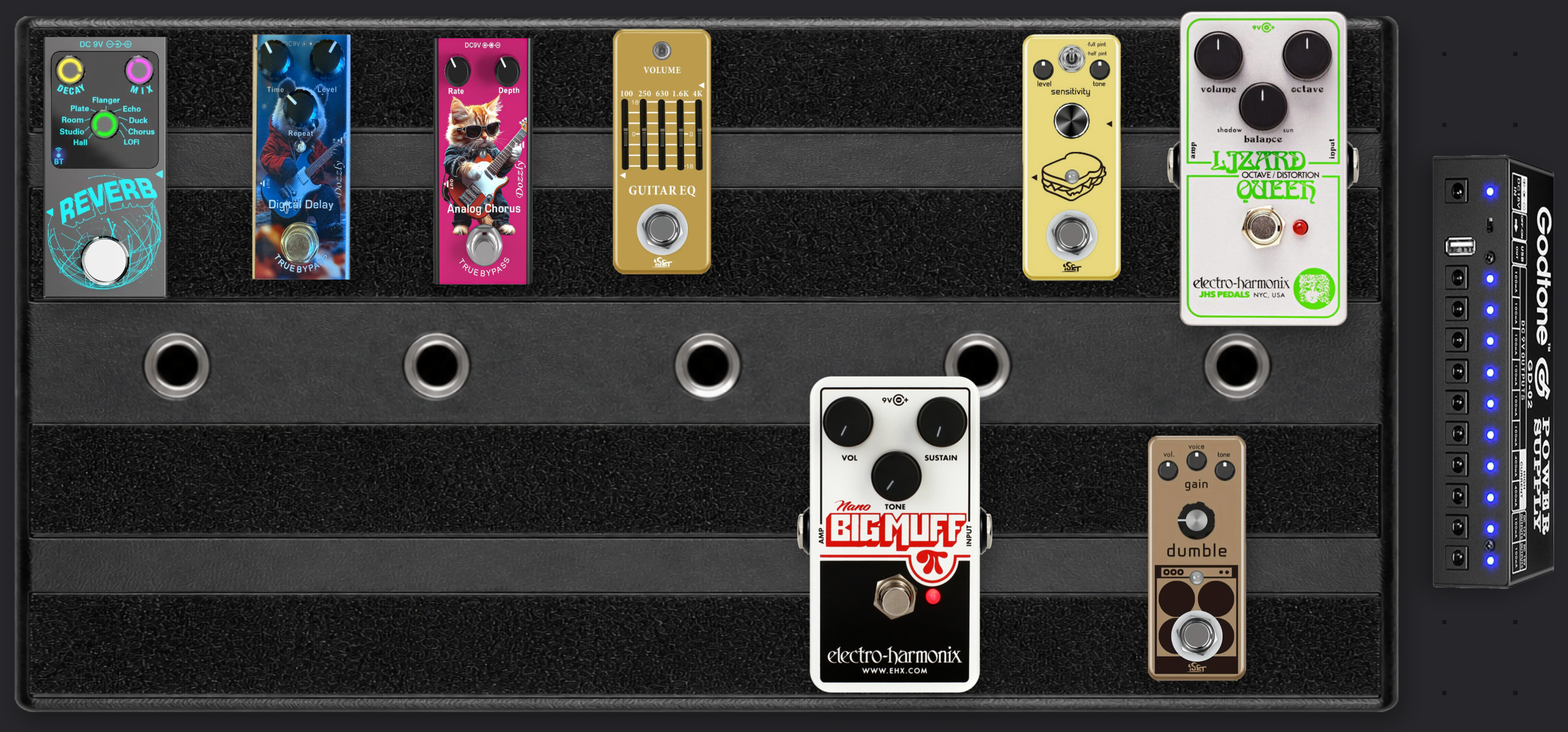
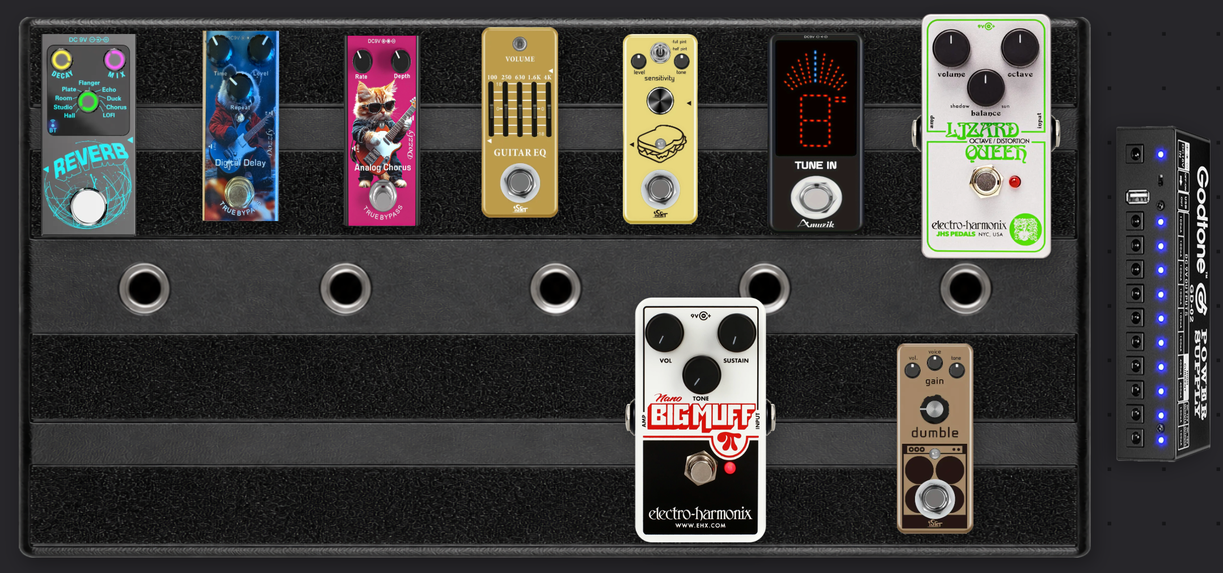
new studio images

Changed region(s): [[0.0, 0.0, 0.9012, 0.9812], [0.9012, 0.2146, 0.9944, 0.7972], [0.404, 0.4599, 0.4972, 0.5519]]

diff --git a/index.html b/index.html
@@ -22,9 +22,9 @@
 
         <link rel="stylesheet" type="text/css" href="./dracula-variables.css?594c5652a3d8e902b50e517a343bc202">
         <link rel="stylesheet" type="text/css" href="./style.css?cce865bd2e49d23154cf51c2d8667830">
-        <script src="./md5s.js?0a24f015"></script>
+        <script src="./md5s.js?2c199"></script>
         <script src="./conf.js?f446a246de4e84158c6204b7cdccab03"></script>
-        <script src="./data.js?77db160e54033761f20c741053576299"></script>
+        <script src="./data.js?03a0454a05d5103fcf10de00875e756b"></script>
         <script src="./code.js?6650e45844951ce5c6ad45dd62e859d3"></script>
         <meta name="apple-mobile-web-app-capable" content="yes" />
         <meta name="apple-mobile-web-app-title" content="Gear 🎸🤘🏼" />
@@ -48,9 +48,9 @@
             <!-- add top custom images and maps here! -->
             <span id="page_pics" class="h6 float-left">
                 <a class="pic_modalize" data-collection="studios"
-                    data-variants="sd,wa-1,wa-2"
-                    data-labels="SD,WA 1,WA 2"
-                    href="./pic/studios/sd.webp?6b1bd63d8306c93e05c48261a17edb7d">Studios</a>
+                    data-variants="ne-1,ne-2,sd,wa-1,wa-2"
+                    data-labels="NE 1,NE 2,SD,WA 1,WA 2"
+                    href="./pic/studios/ne-1.webp?8f8968f92ffc2d114a3f7911a11b7b07">Studios</a>
                 &nbsp;&nbsp;
                 <a class="pic_modalize" data-collection="pedalboards"
                     data-variants="mine-20260706,bass-20260706,kids-20260706"
@@ -72,6 +72,31 @@
                     <option value="pop_charlotte" label="Charlotte"></option>
                 </select>
             </span>
+            <map name="ne-1">
+                <area shape="rect" href="#" coords="1646,293,1292,1371" alt="Les Paul Standard">
+                <area shape="rect" href="#" coords="1755,300,2178,1398" alt="HD-28E Retro">
+                <area shape="rect" href="#" coords="2232,293,2580,1459" alt="Hellraiser Extreme-5">
+                <area shape="rect" href="#" coords="1817,1514,2130,2169" alt="Northfield Calhoun">
+                <area shape="rect" href="#" coords="2273,1541,2525,2032" alt="E3-S">
+                <area shape="rect" href="#" coords="1183,1848,1735,2639" alt="current_rack">
+                <area shape="rect" href="#" coords="1203,1657,1639,1841" alt="THR30II Wireless">
+                <area shape="rect" href="#" coords="4454,14,4884,1596" alt="Variax 700">
+                <area shape="rect" href="#" coords="4434,1623,4850,2660" alt="Variax 500">
+                <area shape="rect" href="#" coords="5013,1425,5606,0" alt="Theseia">
+                <area shape="poly" href="#" coords="1789,2619,1966,2373,2464,2455,2423,2748" alt="current_pedal">
+                <area shape="poly" href="#" coords="5613,3867,6431,3853,6302,3498,6049,3532,5886,3607,5613,3662" alt="bass_pedal">
+            </map>
+            <map name="ne-2">
+                <area shape="rect" href="#" coords="2021,3593,1511,3098" alt="kids_pedal">
+                <area shape="rect" href="#" coords="2399,2952,2066,3245" alt="FBV Express">
+                <area shape="rect" href="#" coords="2046,1600,3646,2659" alt="Rydeen">
+                <area shape="rect" href="#" coords="1678,661,2066,1171" alt="STAGEPAS 500">
+                <area shape="rect" href="#" coords="3626,727,3943,1196" alt="STAGEPAS 500">
+                <area shape="poly" href="#" coords="3908,1993,4070,2089,4065,2377,3923,2437,4059,2614,4620,2977,5069,2866,5119,2018,4806,1892,4761,1721,4362,1660,3913,1852" shape="YDP-223">
+                <area shape="poly" href="#" coords="4645,1680,4715,1695,4776,1907,4589,1933" alt="801m">
+                <area shape="rect" href="#" coords="4781,1786,5533,3189" alt="Deluxe Music Stand">
+                <area shape="rect" href="#" coords="623,4077,1148,3310" alt="Bongos">
+            </map>
             <map name="mine-20260706">
                 <!-- ./import_pp.plx Templeboards\ Trio\ 28 Walrus\ Audio\ Canvas\ Power 2555 -->
                 <area shape="rect" href="#" coords="2639.42754391068,287.874266162456,2839.65981341423,1400.47710304189" alt="Walrus Audio Canvas Power 15">
@@ -90,17 +115,18 @@
                 <area shape="rect" href="#" coords="32,32,2587,1526.94680851064" alt="Templeboards Trio 28">
             </map>
             <map name="kids-20260706">
-                <!-- ./import_pp.plx Rockhouse Godtone 2432 -->
-                <area shape="rect" href="#" coords="2514.45196119858,253.608372981209,2746.04160060945,1056.45245627222" alt="Godtone GD-02">
-                <area shape="rect" href="#" coords="2049.1330642966,22.9811467750128,2397.44388197054,578.796281361097" alt="Electro-Harmonix Lizard Queen">
-                <area shape="rect" href="#" coords="2022.7964087354,771.006159878111,2195.71667282885,1203.30682011173" alt="Dumble Mini">
-                <area shape="rect" href="#" coords="1802.62862366684,65.7124767902487,1975.54888776028,498.01313702387" alt="Sandwich Comp Mini">
-                <area shape="rect" href="#" coords="1401.12297044185,667.36376333164,1749.43378811579,1223.17889791772" alt="Electro-Harmonix Nano Big Muff Pi">
-                <area shape="rect" href="#" coords="1081.96349862875,54.7367953275775,1254.88376272219,487.037455561199" alt="GT EQ Mini">
-                <area shape="rect" href="#" coords="767.870050177755,72.2567947181315,940.790314271204,504.557454951753" alt="Analog Chorus Mini">
-                <area shape="rect" href="#" coords="449.735844997461,63.6324930421538,622.656109090909,495.933153275775" alt="Digital Delay Mini">
-                <area shape="rect" href="#" coords="80.8810963941088,68.5477399695278,299.501715997969,530.49187404774" alt="Reverb Mini">
-                <area shape="rect" href="#" coords="32,32,2464,1257.26358557643" alt="Rockhouse Pedalboard">
+                <!-- ./import_pp.plx Rockhouse Godtone 1890 -->
+                <area shape="rect" href="#" coords="1961.20814418804,204.220322752666,2141.18528994731,828.141094718131" alt="Godtone GD-02">
+                <area shape="rect" href="#" coords="1599.59107381602,24.9911050184105,1870.27670103796,456.936254840655" alt="Electro-Harmonix Lizard Queen">
+                <area shape="rect" href="#" coords="1579.12385382809,606.309885760538,1713.50678932834,942.267224511173" alt="Dumble Mini">
+                <area shape="rect" href="#" coords="1352.04777488573,57.8345494222954,1521.94620048248,416.828962830117" alt="Amuzik Tuner">
+                <area shape="rect" href="#" coords="1095.99770318055,525.765424628618,1366.68333040249,957.710574450863" alt="Electro-Harmonix Nano Big Muff Pi">
+                <area shape="rect" href="#" coords="1095.08883659218,62.8420715464704,1229.47177209243,398.799410297105" alt="Sandwich Comp Mini">
+                <area shape="rect" href="#" coords="847.966699181056,49.6696312373033,982.34963468131,385.626969987938" alt="GT EQ Mini">
+                <area shape="rect" href="#" coords="603.872695245048,63.2850912899949,738.255630745302,399.24243004063" alt="Analog Chorus Mini">
+                <area shape="rect" href="#" coords="356.638465067928,56.5828173723971,491.021400568182,392.540156123032" alt="Digital Delay Mini">
+                <area shape="rect" href="#" coords="69.9873652075927,60.4026433151344,239.885790804342,419.397056722956" alt="Reverb Mini">
+                <area shape="rect" href="#" coords="32,32,1922,984.199085830371" alt="Rockhouse Pedalboard">
             </map>
             <map name="bass-20260706">
                 <!-- ./import_pp.plx Quick\-Lok\ VP\-2611 ENO\ ES\-1 576 -->

diff --git a/md5s.js b/md5s.js
@@ -1,7 +1,7 @@
 const md5s = {
    "./code.js" : "6650e45844951ce5c6ad45dd62e859d3",
    "./conf.js" : "f446a246de4e84158c6204b7cdccab03",
-   "./data.js" : "77db160e54033761f20c741053576299",
+   "./data.js" : "03a0454a05d5103fcf10de00875e756b",
    "./dracula-variables.css" : "594c5652a3d8e902b50e517a343bc202",
    "./footer.js" : "34dc7c2d96a5c9742b503e29bb75ff91",
    "./github.png" : "ca1ef68de99bb1c21b54a2de9c2f5603",
@@ -108,6 +108,9 @@ const md5s = {
    "./images/dd55c/sm.webp" : "7ba6360ce98b4021e963efa3384811f0",
    "./images/deluxebassbigmuffpi/main.webp" : "8d0cfe11537a85a5e5c90e63596c1655",
    "./images/deluxebassbigmuffpi/sm.webp" : "49df9786ab2a3033d06913d5811394a8",
+   "./images/deluxemusicstand/folded.webp" : "d70321d0a03d2316418b3e6df4d140f8",
+   "./images/deluxemusicstand/main.webp" : "d46aa5eaa3555e16294fd1c078096349",
+   "./images/deluxemusicstand/sm.webp" : "da73435749f4142154f0ed64979b6fdc",
    "./images/deluxestringlock/main.webp" : "e1686f0b452f7d52b79b9f8e96836dd3",
    "./images/deluxestringlock/sm.webp" : "d89470788bb313d1f302879eecd60b20",
    "./images/digidelay/main.webp" : "701bd16c4f7c04ca6fcbfa51b82acdf6",
@@ -492,6 +495,8 @@ const md5s = {
    "./images/thr30iiwireless/top.webp" : "03936fdf5c6f1b129b63a476c9f9d91e",
    "./images/tortexstandard/main.webp" : "1945f6102354bfeae9ea015a52af9eb8",
    "./images/tortexstandard/sm.webp" : "af4394ec489798e041d9a1475c487186",
+   "./images/tripodspeakerstand/main.webp" : "78e03a6b04c17ed8494cd0934dce74d3",
+   "./images/tripodspeakerstand/sm.webp" : "a7ee98d1985b6bdc93e4ecff57c9ea5e",
    "./images/tumnusdeluxe/main.webp" : "96396a6abe36a9604e3b01a25611ca17",
    "./images/tumnusdeluxe/sm.webp" : "1df095dd2ee20755830b15a3ea6eb7e1",
    "./images/tunermini/main.webp" : "13594b9539349b1d3ed74a72e7d1042b",
@@ -701,16 +706,18 @@ const md5s = {
    "./manuals/ydp223/yamaha-50-greats-piano.pdf" : "698e4d35ecf2625911a6ca5fb7f7d5d7",
    "./manuals/ypt300/YPT300_1.pdf" : "05b566baeb4e9064ab170a87abddcb1d",
    "./manuals/zeus/Quick Start Guide.pdf" : "57fd8927b9c597aca1753d1c95c9ec68",
-   "./md5s.js" : "0a24f015",
+   "./md5s.js" : "2c199",
    "./pic/pedalboards/bass-20260701.webp" : "f7cd591fb7a81960bedfeafe59e45ae1",
    "./pic/pedalboards/bass-20260706.webp" : "40d0ee044a6aa3593d6c627e1388ac7c",
    "./pic/pedalboards/kids-20260501.webp" : "d87fd6898244119104c9a9bd8378c76c",
    "./pic/pedalboards/kids-20260701.webp" : "3403d66b31d4e9486ed0a96bb6ae53c8",
-   "./pic/pedalboards/kids-20260706.webp" : "89911ce4d1fb5c471ab48d59e8afb782",
+   "./pic/pedalboards/kids-20260706.webp" : "0da3ddb089c3cf1865591125bb0d208",
    "./pic/pedalboards/mine-20260501.webp" : "f2380ba7cc10e936bb35e4f21fd1640f",
    "./pic/pedalboards/mine-20260601.webp" : "b1af7426fc3d7c3a99436037755a3796",
    "./pic/pedalboards/mine-20260701.webp" : "5fff2d041745334e724dfc25b6d6e53a",
    "./pic/pedalboards/mine-20260706.webp" : "720e7e0ff962c9eb14011fa3d5bcd1d1",
+   "./pic/studios/ne-1.webp" : "8f8968f92ffc2d114a3f7911a11b7b07",
+   "./pic/studios/ne-2.webp" : "d37cc0047d94ca51a6042a4bc5eb5c9e",
    "./pic/studios/sd.webp" : "6b1bd63d8306c93e05c48261a17edb7d",
    "./pic/studios/wa-1.webp" : "f5b324fdafe7dc1681be30c047e665ee",
    "./pic/studios/wa-2.webp" : "969c536895266b783eb341d819b5c306",

diff --git a/data.js b/data.js
@@ -1,4 +1,4 @@
-var lastModified = new Date("2026-07-02T12:00:00+0000")
+var lastModified = new Date("2026-07-06T12:00:00+0000")
 var equipment_data = {}
 var equipment = [
    {
@@ -2822,6 +2822,26 @@ var equipment = [
    },
    {
       "category" : "Hardware",
+      "image" : true,
+      "make" : "Crafty Gizmos",
+      "model" : "Deluxe Music Stand",
+      "type" : "Stand",
+      "year" : "2017"
+   },
+   {
+      "category" : "Hardware",
+      "image" : true,
+      "link" : "https://pyleusa.com/products/pstnd25?_pos=1&_sid=9ac181a9a&_ss=r",
+      "make" : "Pyle",
+      "model" : "Tripod Speaker Stand",
+      "notes" : [
+         "STAGEPAS 500"
+      ],
+      "type" : "Stand",
+      "year" : "2014"
+   },
+   {
+      "category" : "Hardware",
       "current_rack" : true,
       "image" : true,
       "link" : "https://www.korg.com/us/products/tuners/cm_300/index.php",
@@ -3198,6 +3218,12 @@ var equipment = [
       "main_rig" : true,
       "make" : "Yamaha",
       "model" : "Rydeen",
+      "notes" : [
+         "HCS 14\" Crash",
+         "Planet Z 13\" Hi-Hat",
+         "Planet Z 18\" Crash Ride",
+         "Nitro"
+      ],
       "type" : "Drums",
       "year" : "2013",
       "year_uncertain" : true
@@ -4510,6 +4536,7 @@ var equipment = [
 
 var links = {
    "AKG" : "https://www.akg.com/",
+   "Adam" : "",
    "Amuzik" : "",
    "Apple" : "https://www.apple.com/",
    "Audio Technica" : "https://www.audio-technica.com/en-us/",
@@ -4518,6 +4545,7 @@ var links = {
    "Beyer Dynamic" : "https://north-america.beyerdynamic.com/",
    "Blackstar" : "https://www.blackstaramps.com/",
    "Clayton" : "https://www.steveclayton.com/",
+   "Crafty Gizmos" : "",
    "DR Strings" : "https://www.drstrings.com/",
    "Daisy Rock" : "https://www.daisyrock.com/",
    "Digitech" : "https://www.digitech.com/",
@@ -4578,6 +4606,7 @@ var links = {
    "Peterson" : "https://www.petersontuners.com/",
    "Pignose" : "https://pignoseamps.com/",
    "ProCo" : "https://actentertainment.com/products/?brand=68",
+   "Pyle" : "https://pyleusa.com/",
    "Quick-Lok" : "https://www.quiklok.com/",
    "Radial Engineering" : "https://www.radialeng.com/",
    "Road Runner" : "https://roadrunnercases.com/",
@@ -4591,6 +4620,7 @@ var links = {
    "Shadow" : "https://shadowelectronics.com/",
    "Shubb" : "https://www.shubb.com/",
    "Shure" : "https://www.shure.com/",
+   "Snark" : "",
    "Sony" : "https://www.sony.com/",
    "Sound Town" : "https://www.soundtown.com/",
    "Stageline" : "https://www.stagelinestands.com/",
@@ -4612,6 +4642,7 @@ var links = {
    "Washburn" : "https://www.washburn.com/",
    "Wicked Cushions" : "https://wickedcushions.com/",
    "Wittner" : "https://www.wittner-gmbh.de/",
+   "Wm. Schmick" : "",
    "Yamaha" : "https://usa.yamaha.com/",
    "Zildjian" : "https://zildjian.com/",
    "iSet" : "",
